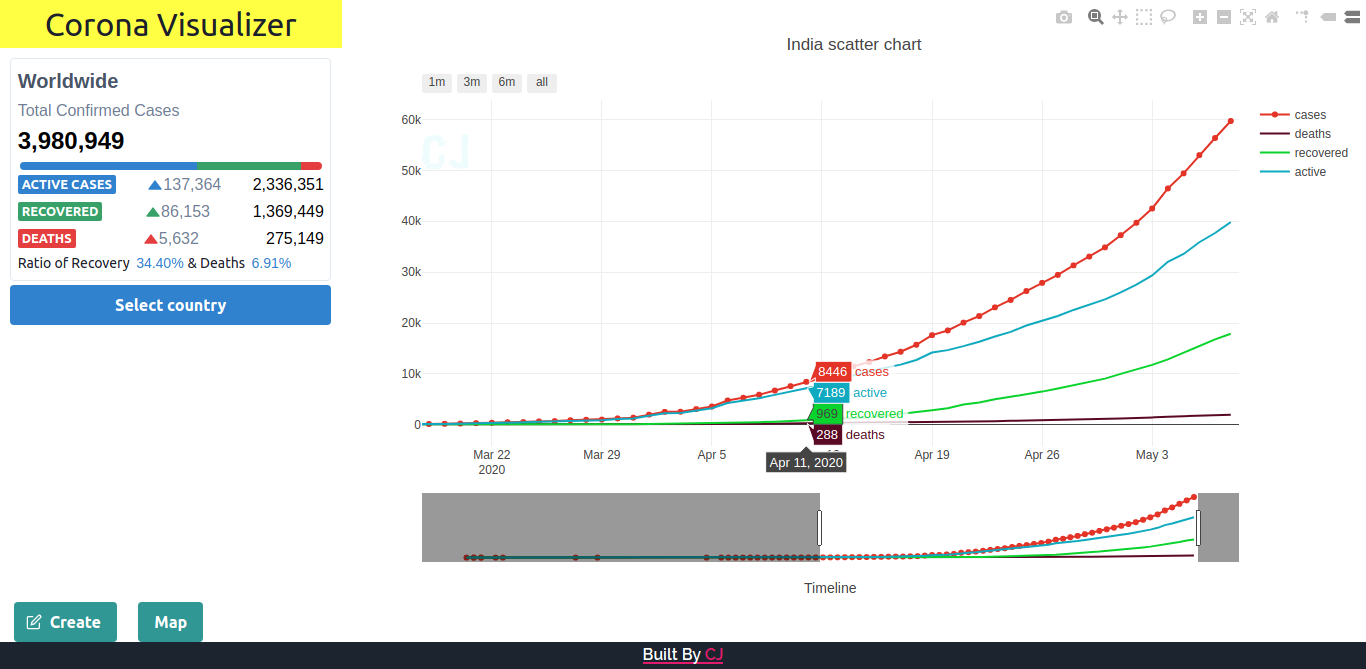
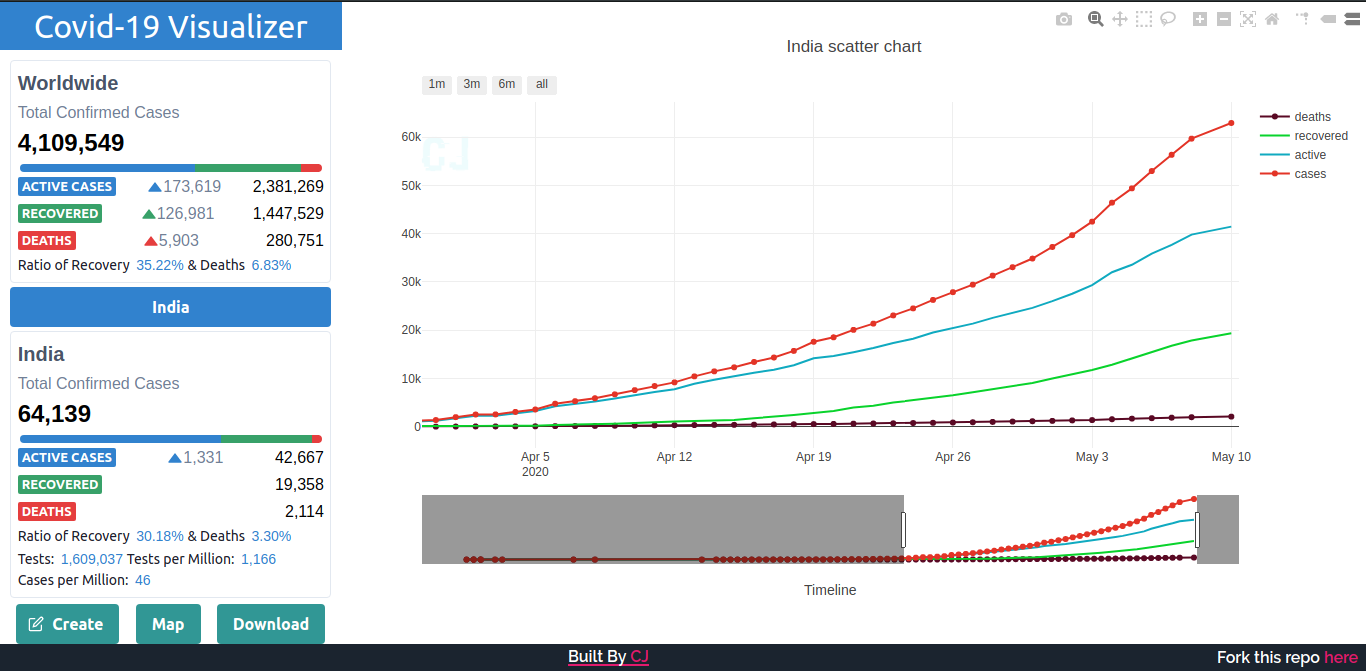
added t-name attri

diff --git a/src/App.js b/src/App.js
@@ -45,6 +45,7 @@ const App = () => {
                   {activeComp === 'map' ? (
                     <Box alignSelf='flex-end'>
                       <Button
+                        data-tname='VisualizeButton'
                         variantColor='pink'
                         variant='solid'
                         onClick={() => setActiveComp('graph')}
@@ -62,14 +63,28 @@ const App = () => {
                       <Box d={['None', 'initial']}>
                         <DrawerOption key='drawer-option' />
                       </Box>
-
                       <Button
+                        data-tname='MapButton'
                         variantColor='teal'
                         variant='solid'
                         onClick={() => setActiveComp('map')}
                       >
                         Map
                       </Button>
+                      <Box d={['None', 'initial']}>
+                        <Button
+                          data-tname='DownloadButton'
+                          variantColor='teal'
+                          variant='solid'
+                          onClick={() =>
+                            document
+                              .querySelector('a[data-title="Download plot"]')
+                              .click()
+                          }
+                        >
+                          Download
+                        </Button>
+                      </Box>
                     </Box>
                   )}
                 </Box>
@@ -80,26 +95,40 @@ const App = () => {
             </Box>
           </Box>
         </Box>
-        <div className='info-box'>
-          <div></div>
-          <div className='footnote'>
+        <Box className='info-box'>
+          <Box width={{ md: 100 / 3 + '%' }}></Box>
+          <Box
+            width={{ md: 100 / 3 + '%' }}
+            display={{ md: 'flex' }}
+            justifyContent={{ md: 'center' }}
+          >
             <a
+              data-tname='BuiltByCJ'
+              className='footnote'
               href='https://devcj.in'
               target='_blank'
               rel='noopener noreferrer'
             >
               Built By <span className='highlight'>CJ</span>
             </a>
-          </div>
-          <a
-            href='https://github.com/dev-cj/visualize-corona'
-            target='_blank'
-            rel='noopener noreferrer'
+          </Box>
+          <Box
+            width={{ md: 100 / 3 + '%' }}
+            display={{ md: 'flex' }}
+            justifyContent={{ md: 'flex-end' }}
             style={{ color: '#fff' }}
           >
-            Fork this repo <span className='highlight'>here &nbsp;</span>
-          </a>
-        </div>
+            <a
+              data-tname='ForkThisRepo'
+              href='https://github.com/dev-cj/visualize-corona'
+              target='_blank'
+              rel='noopener noreferrer'
+            >
+              Fork this repo &nbsp;
+              <span className='highlight'>here &nbsp;</span>
+            </a>
+          </Box>
+        </Box>
       </Box>
     </ThemeProvider>
   )

diff --git a/public/index.html b/public/index.html
@@ -30,6 +30,43 @@
       integrity="sha512-xwE/Az9zrjBIphAcBb3F6JVqxf46+CDLwfLMHloNu6KEQCAWi6HcDUbeOfBIptF7tcCzusKFjFw2yuvEpDL9wQ=="
       crossorigin=""
     />
+    <script type="text/javascript">
+      ;(window.heap = window.heap || []),
+        (heap.load = function (e, t) {
+          ;(window.heap.appid = e), (window.heap.config = t = t || {})
+          var r = document.createElement('script')
+          ;(r.type = 'text/javascript'),
+            (r.async = !0),
+            (r.src = 'https://cdn.heapanalytics.com/js/heap-' + e + '.js')
+          var a = document.getElementsByTagName('script')[0]
+          a.parentNode.insertBefore(r, a)
+          for (
+            var n = function (e) {
+                return function () {
+                  heap.push(
+                    [e].concat(Array.prototype.slice.call(arguments, 0))
+                  )
+                }
+              },
+              p = [
+                'addEventProperties',
+                'addUserProperties',
+                'clearEventProperties',
+                'identify',
+                'resetIdentity',
+                'removeEventProperty',
+                'setEventProperties',
+                'track',
+                'unsetEventProperty',
+              ],
+              o = 0;
+            o < p.length;
+            o++
+          )
+            heap[p[o]] = n(p[o])
+        })
+      heap.load(127398197)
+    </script>
     <style>
       * {
         margin: 0;

diff --git a/src/components/desktopVisualizerLeft.js b/src/components/desktopVisualizerLeft.js
@@ -171,7 +171,14 @@ const DesktopVisualizerLeft = (prop) => {
     const CountryList = () => (
       <Box d='flex' flexDir='column' w='100%'>
         <Menu closeOnSelect={true}>
-          <MenuButton mt={1} mb={1} as={Button} variantColor='blue' size='md'>
+          <MenuButton
+            mt={1}
+            mb={1}
+            as={Button}
+            variantColor='blue'
+            size='md'
+            data-tname='SelectCountrySingle'
+          >
             {currentCountry || 'Select country'}
           </MenuButton>
           <MenuList

diff --git a/src/components/drawer.js b/src/components/drawer.js
@@ -52,6 +52,7 @@ const DrawerOption = () => {
         variantColor='teal'
         onClick={onOpen}
         // zIndex={100}
+        data-tname='CreateChart'
         key='menu-button'
         leftIcon='edit'
       >
